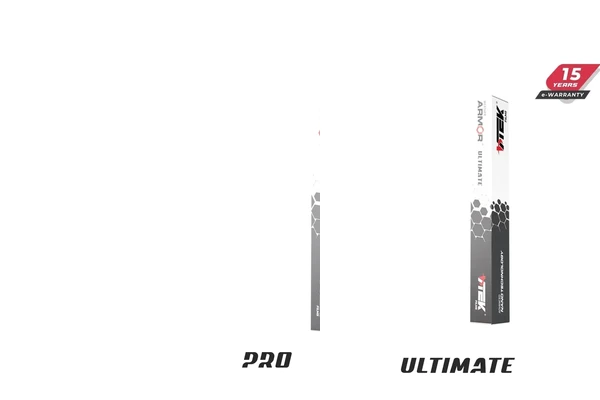
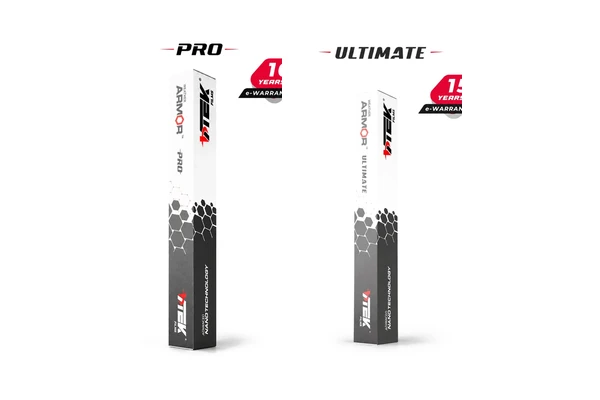
feat(products): update VTEK PPF product photography with new high-res renders
- Updated VTEK Weather Armor PRO (10-year warranty)
- Updated VTEK Weather Armor ULTIMATE (15-year warranty)
- Updated VTEK Weather Armor MATTE (5-year warranty)
- Updated VTEK Weather Armor PRISM (5-year warranty)
- Added VTEK Weather Armor PRO PLUS (12-year warranty)
- Updated family lineup and brand shelf packshots
- Regenerated social OG cards for all 5 products

diff --git a/src/data/products.ts b/src/data/products.ts
@@ -123,7 +123,7 @@ export const PRODUCTS: Product[] = [
     audience: "both",
     featured: true,
     highlight: "vertek-premium",
-    updatedAt: "2026-09-01",
+    updatedAt: "2026-09-03",
   },
   {
     slug: "vtek-ppf-weather-armor-pro",
@@ -180,7 +180,64 @@ export const PRODUCTS: Product[] = [
     audience: "both",
     featured: true,
     highlight: "vertek-premium",
-    updatedAt: "2026-09-01",
+    updatedAt: "2026-09-03",
+  },
+  {
+    slug: "vtek-ppf-weather-armor-pro-plus",
+    brand: "VTEK",
+    category: "ppf",
+    name: {
+      en: "VTEK PPF — Weather Armor PRO PLUS",
+      ar: "VTEK — فيلم حماية الطلاء Weather Armor PRO PLUS",
+    },
+    shortDesc: {
+      en: "Advanced aliphatic TPU paint protection film with high-durability hydrophobic topcoat, extreme clarity and 12-year warranty.",
+      ar: "فيلم حماية طلاء متطور من TPU الأليفاتي مع طبقة نانوية طاردة للماء، لمعان فائق وضمان ١٢ سنة.",
+    },
+    longDesc: {
+      en: "VTEK® Weather Armor™ PRO PLUS takes paint defense to the next tier. Engineered with high-density aliphatic TPU and a resilient heat-activated nano topcoat, PRO PLUS delivers superior stone chip resistance, enhanced chemical tolerance against road film and bird droppings, and an ultra-gloss finish that deepens factory paint color. Ideal for high-mileage luxury vehicles and daily drivers in Qatar, backed by a comprehensive 12-year warranty.",
+      ar: "يرتقي فيلم VTEK® Weather Armor™ PRO PLUS بمستوى حماية الطلاء إلى درجات متقدمة. صُنع من مادة TPU الأليفاتية عالية الكثافة مع طبقة نانوية فائقة تنشط بالحرارة للإصلاح الذاتي، ليمنح مقاومة استثنائية لضربات الحصى والتأثيرات البيئية والمواد الكيميائية مع لمعان بصري عميق يعزز نقاء لون طلاء الوكالة، ومدعوم بضمان رسمي شامل لمدة ١٢ سنة.",
+    },
+    images: [
+      "/products/vtek/vtek-weather-armor-pro-plus.webp",
+      "/products/vtek/vtek-weather-armor-lineup-v2.webp",
+    ],
+    specs: [
+      {
+        label: { en: "Material", ar: "المادة" },
+        value: { en: "High-Grade Aliphatic TPU", ar: "مادة TPU أليفاتية عالية الجودة" },
+      },
+      {
+        label: { en: "Thickness", ar: "السماكة" },
+        value: { en: "8.0 mil (203 µm)", ar: "٨.٠ مل (٢٠٣ ميكرون)" },
+      },
+      {
+        label: { en: "Finish", ar: "التشطيب" },
+        value: { en: "High Optical Clarity Gloss", ar: "لمعان عالي الشفافية والنقاء" },
+      },
+      {
+        label: { en: "Technology", ar: "التقنية" },
+        value: {
+          en: "Heat-Activated Self-Healing Nano-Coat",
+          ar: "طلاء نانو ذاتي الإصلاح بالحرارة",
+        },
+      },
+      {
+        label: { en: "Warranty", ar: "الضمان" },
+        value: { en: "12-Year Warranty", ar: "ضمان ١٢ سنة" },
+      },
+      {
+        label: { en: "Resistance", ar: "المقاومة" },
+        value: {
+          en: "Extreme UV, Desert Sand & Chemical Stains",
+          ar: "مقاومة قصوى للأشعة والرمال والبقع",
+        },
+      },
+    ],
+    audience: "both",
+    featured: true,
+    highlight: "vertek-premium",
+    updatedAt: "2026-09-03",
   },
   {
     slug: "vtek-ppf-weather-armor-matte",
@@ -234,7 +291,7 @@ export const PRODUCTS: Product[] = [
     audience: "both",
     featured: true,
     highlight: "vertek-premium",
-    updatedAt: "2026-09-01",
+    updatedAt: "2026-09-03",
   },
   {
     slug: "vtek-ppf-weather-armor-prism",
@@ -290,7 +347,7 @@ export const PRODUCTS: Product[] = [
     audience: "both",
     featured: true,
     highlight: "vertek-premium",
-    updatedAt: "2026-09-01",
+    updatedAt: "2026-09-03",
   },
   // ───── VTEK — Solar Armor VUE Window Tint (STAR)
   {
